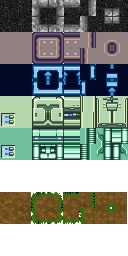
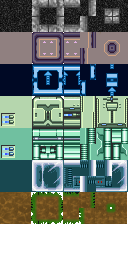
Add teleporter entity

Changed region(s): [[0.0, 0.625, 1.0, 0.75]]

diff --git a/src/game/level3.cpp b/src/game/level3.cpp
@@ -17,6 +17,7 @@
 #include "game/game.h"
 #include "game/entities/switch.h"
 #include "game/entities/wheel.h"
+#include "game/entities/teleporter.h"
 
 const auto W = 128;
 const auto H = 128;
@@ -79,7 +80,7 @@ static const char levelData[H][W + 1] =
   "ZZZZZZZZZZZZZZZZZZ                             ZZZZZZZZZZZZZZZZZZZZZZZZZZZZZZZZZZZZZZZZZZZZZZZZXXXXXXXXXXXXXXXXXXXXXXXXXXXXXXXXX",
   "ZZZZZZZZZZZZZZZZZZ                             ZZZZZZZZZZZZZZZZZZZZZZZZZZZZZZZZZZZZZZZZZZZZZZZZXXXXXXXXXXXXXXXXXXXXXXXXXXXXXXXXX",
   "ZZZZZZZZZZZZZZZZZZ                             ZZZZZZZZZZZZZZZZZZZZZZZZZZZZZZZZZZZZZZZZZZZZZZZZXXXXXXXXXXXXXXXXXXXXXXXXXXXXXXXXX",
-  "ZZZZZZZZZZZZZZZZZZ                             ZZZZZZZZZZZZZZZZZZZZZZZZZZZZZZZZZZZZZZZZZZZZZZZZXXXXXXXXXXXXXXXXXXXXXXXXXXXXXXXXX",
+  "ZZZZZZZZZZZZZZZZZZ                  ?          ZZZZZZZZZZZZZZZZZZZZZZZZZZZZZZZZZZZZZZZZZZZZZZZZXXXXXXXXXXXXXXXXXXXXXXXXXXXXXXXXX",
   "ZZZZZZZZZZZZZZZZZZ       ZZZZZZZZZZZZZZZZZZZZZZZZZZZZZZZZZZZZZZZZZZZZZZZZZZZZZZZZZZZZZZZZZZZZZZXXXXXXXXXXXXXXXXXXXXXXXXXXXXXXXXX",
   "ZZZZZZZZZZZZZZZZZZ       ZZZZZZZZZZZZZZZZZZZZZZZZZZZZZZZZZZZZZZZZZZZZZZZZZZZZZZZZZZZZZZZZZZZZZZXXXXXXXXXXXXXXXXXXXXZZZZZZZZZZZXX",
   "ZZZZZZZZZZZZZZ           ZZZZZZZZZZZZZZZZZZZZZZZZZZZZZZZZZZZZZZZZZZZZZZZZZZZZZZZZZZZZZZZZZZZZZZXXXXXXXXXXXXXXXXXXXXZ         ZXX",
@@ -100,12 +101,12 @@ static const char levelData[H][W + 1] =
   "ZZZZZZZZZZ                 B                                     XXXXXXXXXXXXXXXXXXXXXXXXXXXXXXXXXXXXXXXXXXXXXXXXXXXXXXXXXXXXXXX",
   "ZZZZZZZZZZZZZZZZZZZZZZZZZXXX                   XXXXXXXXXXXXXXXXXXXXXXXXXXXXXXXXXXXXXXXXXXXXXXXXXXXXXXXXXXXXXXXXXXXXXXXXXXXXXXXXX",
   "XXXXXXXXXXXXXXXXXXXXXXXXXXXX                   XXXXXXXXXXXXXXXXXXXXXXXXXXXXXXXXXXXXXXXXXXXXXXXXXXXXXXXXXXXXXXXXXXXXXXXXXXXXXXXXX",
-  "XXXXXXXXXXXXXXXXXXXX                           XXXXXXXXXXXXXXXXXXXXXXXXXXXXXXXXXXXXXXXXXXXXXXXXXXXXXXXXXXXXXXXXXXXXXXXXXXXXXXXXX",
-  "XXXXXXXXXXXXXXXXXXX          XXXXXXXXXXXXXXXXXXXXXXXXXXXXXXXXXXXXXXXXXXXXXXXXXXXXXXXXXXXXXXXXXXXXXXXXXXXXXXXXXXXXXXXXXXXXXXXXXXX",
+  "XXXXXXXXXXXXXXXXXXX                            XXXXXXXXXXXXXXXXXXXXXXXXXXXXXXXXXXXXXXXXXXXXXXXXXXXXXXXXXXXXXXXXXXXXXXXXXXXXXXXXX",
+  "XXXXXX                       XXXXXXXXXXXXXXXXXXXXXXXXXXXXXXXXXXXXXXXXXXXXXXXXXXXXXXXXXXXXXXXXXXXXXXXXXXXXXXXXXXXXXXXXXXXXXXXXXXX",
   "XXXXXX                       XXXXXXXXXXXXXXXXXXXXXXXXXXXXXXXXXXXXXXXXXXXXXXXXXXXXXXXXXXXXXXXXXXXXXXXXXXXXXXXXXXXXXXXXXXXXXXXXXXX",
   "XXXXXX                XX  XXXXXXXXXXXXXXXXXXXXXXXXXXXXXXXXXXXXXXXXXXXXXXXXXXXXXXXXXXXXXXXXXXXXXXXXXXXXXXXXXXXXXXXXXXXXXXXXXXXXXX",
-  "XXXXXX               XX                                           XXXX                XXX               XXXXXXXXXXXXXXXXXXXXXXXX",
-  "XXXXXX   X    XXXXXXXX                                                                                  XXXXXXXXXXXXXXXXXXXXXXXX",
+  "XXXXXX        XXXXXXXXX                                           XXXX                XXX               XXXXXXXXXXXXXXXXXXXXXXXX",
+  "XXXXXX   X                                                                                              XXXXXXXXXXXXXXXXXXXXXXXX",
   "XXXXXX                                                                                                                    XXXXXX",
   "XXXXXX                                                                                                                        XX",
   "XXXXXXXXXX   XXX XXXXX  XXX  XXX XXX XXXXXXX  XXXX  XXXXXXXXXXX   XXXX   XX  XX  XXXXXXXX                                     XX",
@@ -131,8 +132,8 @@ static const char levelData[H][W + 1] =
   "XXXXX                    XXXXXXXXXXXXXXXXXXXXXXXXXXXXXXXXXXXXXXXXXXXXXXXXXXXXXXXXXX                XXXXXXXXXXXXXXXXXXXXXXXXXXXXX",
   "XXX    XX                XXXXXXXXXXXXXXXXXXXXXXXXXXXXXXXXXXXXXXXXXXXXXXXXXXXXXXXXXX                XXXXXXXXXXXXXXXXXXXXXXXXXXXXX",
   "XXX        XX            XXXXXXXXXXXXXXXXXXXXXXXXXXXXXXXXXXXXXXXXXXXXXXXXXXXXXXXXXX                XXXXXXXXXXXXXXXXXXXXXXXXXXXXX",
-  "XXX            XX                                                    XXXXXXXXXXXXXXXXXXXXXXXXXXXXXXXXXXXXXXXXXXXXXXXXXXXXXXXXXXX",
-  "XXX               XX                                                 XXXXXXXXXXXXXXXXXXXXXXXXXXXXXXXXXXXXXXXXXXXXXXX        XXXX",
+  "XXX            XX                                                    XXXXXXXXXXXXXXXXXXXXXXXXXXXXXXXXXXXXXXXXXXXXXXX          XX",
+  "XXX               XX                                                 XXXXXXXXXXXXXXXXXXXXXXXXXXXXXXXXXXXXXXXXXXXXXXX          XX",
   "XXX     *  *                                                         XXXXXXXXXXXXXXXXXXXXXXXXXXXXXXXXXXXXXXXXXXXXXXX          XX",
   "XXX                   XXX   XXX    XX     XX   XX    XX              XXXXXXXXXXXXXXXXXXXXXXXXXXXXXXXXXXXXXXXXXXXXXXX  XXXXX   XX",
   "XXX                  XXX        X      X          X       XX             XXXXXXXXXXXXXXXXXXXXXXXXXXXXXXXXXXXXXXXXX    XXXXX   XX",
@@ -142,9 +143,9 @@ static const char levelData[H][W + 1] =
   "XXXXXXXXXXXXXXXXXXXXXXXXXXXX                                  XXXXXX   XXXXXXXX                                               XX",
   "XXXXXXXXXXXXXXXXXXXXXXXXXXXXXXXXXXXXXXXXXXXXXXXXXXXXXXXXXXXXXXXXXXXX XXXXXXXXXX  XXXXXXXX       XXXXXXXX      XXXX            XX",
   "XXXXXXXXXXXXXXXXXXXXXXXXXXXXXXXXXXXXXXXXXXXXXXXXXXXXXXXXXXXXXXXXXXXXXXXXXXXXXXX  XXXXXXXXXXXXXXXXXXXXXXXXXXXXXXXXXXXXX        XX",
-  "XX                          XXXXXXXXXXXXXXXXXXXXXXXXXXXXXXXXXXXXXXXXXXXXXXXXXXXXXXXXXXXXXXXXXXXXXXXXXXXXXXXXXXXXXXXXXX        XX",
-  "XX                          XXXXXXXXXXXXXXXXXXXXXXXXXXXXXXXXXXXXXXXXXXXXXXXXXXXXXXXXXXXXXXXXXXXXXXXXXXXXXXXXXXXXXXXXXX        XX",
-  "XX  Y   X                    XXXXXXXXXXXXXXXXXXXXXXXXXEEEEEEXXXXXXXXXXXXXXXXXXXXXXXXXEEEE       XXXXXXXXXXXXXXXXXXXXXX        XX",
+  "XX                          XXXXXXXXXXXXXXXXXXXXXXXXXXXXXXXXXXXXXXXXXXXXXXXXXXXXXXXXXEEEEEEXXXXXXXXXXXXXXXXXXXXXXXXXXX        XX",
+  "XX                          XXXXXXXXXXXXXXXXXXXXXXXXXXXXXXXXXXXXXXXXXXXXXXXXXXXXXXXXX           XXXXXXXXXXXXXXXXXXXXXX        XX",
+  "XX  Y   X                    XXXXXXXXXXXXXXXXXXXXXXXXXEEEEEEXXXXXXXXXXXXXXXXXXXXXXXXX           XXXXXXXXXXXXXXXXXXXXXX        XX",
   "XY                  XXXXXY      XX    XXX      X                 ZZ  ZZ                                 XX    XX              XX",
   "XY                 XXXXXXY                                                                XXXXX               *               XX",
   "XY                XXXXXXXY                                                                    X                               XX",
@@ -162,6 +163,14 @@ int interpretTile(Vector2i pos, Vector2i& start, IGame* game, int val)
     return 0;
   case '!':
     start = pos;
+    return 0;
+  case '?':
+    {
+      auto teleporter = new Teleporter;
+      teleporter->pos = Vector2f(pos.x, pos.y);
+      game->spawn(teleporter);
+      return 0;
+    }
     return 0;
   default:
     return 4;

diff --git a/src/game/entities/teleporter.h b/src/game/entities/teleporter.h
@@ -1,0 +1,63 @@
+/**
+ * @brief Exit portal.
+ * @author Sebastien Alaiwan
+ */
+
+/*
+ * Copyright (C) 2015 - Sebastien Alaiwan
+ * This program is free software: you can redistribute it and/or modify
+ * it under the terms of the GNU Affero General Public License as
+ * published by the Free Software Foundation, either version 3 of the
+ * License, or (at your option) any later version.
+ */
+
+#pragma once
+
+#include <algorithm>
+#include <cmath>
+
+#include "engine/util.h"
+#include "engine/scene.h"
+#include "game/entity.h"
+#include "game/models.h"
+#include "game/sounds.h"
+
+class Teleporter : public Entity
+{
+public:
+  Teleporter()
+  {
+    size = Size2f(2, 1);
+    solid = true;
+    state = false;
+  }
+
+  virtual Actor getActor() const override
+  {
+    auto r = Actor(pos, MDL_TELEPORTER);
+    r.scale = Vector2f(2, 2);
+    r.pos -= Vector2f(1, 0);
+    r.ratio = state ? 1 : 0;
+    return r;
+  }
+
+  virtual void tick() override
+  {
+  }
+
+  virtual void onCollide(Entity* other) override
+  {
+    if(state)
+      return;
+
+    if(abs(other->vel.x) >= 0.001)
+      return;
+
+    state = true;
+    game->playSound(SND_SWITCH);
+    //game->trigger(TRG_ENDLEVEL);
+  }
+
+  bool state;
+};
+

diff --git a/src/game/game.cpp b/src/game/game.cpp
@@ -119,6 +119,7 @@ public:
       { MDL_ROCKMAN, "res/sprites/rockman.json" },
       { MDL_WHEEL, "res/sprites/wheel.json" },
       { MDL_LIFEBAR, "res/sprites/lifebar.json" },
+      { MDL_TELEPORTER, "res/sprites/teleporter.json" },
     };
 
     return makeView(models);

diff --git a/src/game/models.h b/src/game/models.h
@@ -7,5 +7,6 @@ enum
   MDL_ROCKMAN,
   MDL_WHEEL,
   MDL_LIFEBAR,
+  MDL_TELEPORTER,
 };
 
